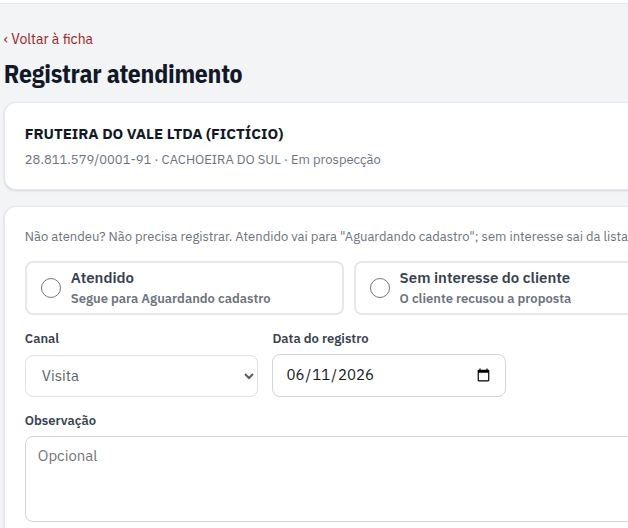
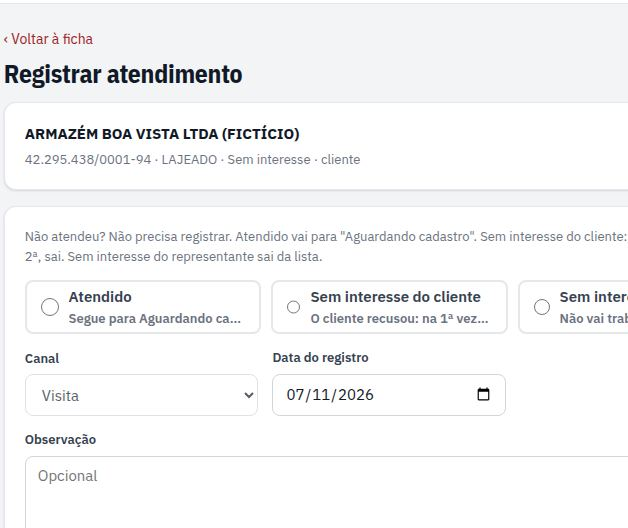
Sem interesse do cliente: 1ª recusa com retorno e na lista; 2ª tira da lista
- Migração 0034: na 1ª recusa do cliente a data de retorno é obrigatória
  (banco e telas) e o cliente continua na lista do representante, na ordem da
  próxima ação; passou a data sem registro, aviso Retorno vencido. Na 2ª
  recusa, ou no sem interesse do representante, sai da lista (Rejeitados).
  Cliente já cadastrado no ERP só registra. Os sem interesse anteriores ficam
  como estão; novo registro deles conta como 2ª recusa.
- Registro individual e em lote: Retornar em * só no sem interesse do
  cliente (1ª recusa); o Atendido não pede mais retorno.
- Lista: "retornar em dd/mm" embaixo do status (vermelho quando chegou).
- Ajuda, docs/02 e docs/03 §2 e §4, testes (banco, lote, registro, telas).

diff --git a/web/js/telas/registrar.js b/web/js/telas/registrar.js
@@ -2,9 +2,9 @@
 // "Não atendido" não gera registro. A data é a do aparelho; o banco confere tudo de novo (triggers).
 import { bancoApp } from '../db.js';
 import { consultaFicha } from '../../shared/carteira.mjs';
-import { comandoRegistrarContato, listarMotivos } from '../../shared/registro.mjs';
+import { comandoRegistrarContato, consultaPrimeiraRecusa, listarMotivos } from '../../shared/registro.mjs';
 import { CANAIS_EM_USO, motivosDaOrigem, ORIGENS_SEM_INTERESSE, ROTULOS_RESULTADO, validarContato } from '../../shared/status.mjs';
-import { hojeSaoPaulo } from '../../shared/datas.mjs';
+import { hojeSaoPaulo, somarDias } from '../../shared/datas.mjs';
 import { mensagemErro } from '../../shared/gravacao.mjs';
 import { h, montar, mensagem, aviso, comEspera, formatar } from '../ui.js';
 import { seloStatus } from './_carteira.js';
@@ -30,7 +30,9 @@ export async function render(conteudo, ctx) {
     return montar(conteudo, mensagem(`${p.status_nome}: este cliente não aceita novo registro.`, 'info'),
       h('a', { href: `#/ficha?id=${id}` }, '‹ Voltar à ficha'));
   }
-  const motivos = await listarMotivos(db);
+  const [motivos, recusa] = await Promise.all([listarMotivos(db), db.execute(consultaPrimeiraRecusa(id))]);
+  // 1ª recusa do cliente: data de retorno obrigatória e o cliente continua na lista; na 2ª ele sai da lista (0034)
+  const primeiraRecusa = Number(recusa.rows[0]?.primeira) === 1;
   const hoje = hojeSaoPaulo();
   // "sem interesse" em duas opções (do cliente / do representante), cada uma com os seus motivos; o registro é o mesmo
   // (resultado sem_interesse) e a origem vem do motivo. Reabrir com pedido só para quem está "sem interesse".
@@ -55,18 +57,23 @@ export async function render(conteudo, ctx) {
   }
   const observacao = h('textarea', { id: 'observacao', rows: 3, maxlength: 500, placeholder: 'Opcional' });
   const rotuloObs = h('label', { for: 'observacao' }, 'Observação');
-  const retorno = h('input', { type: 'date', id: 'data-retorno', min: hoje });
+  const retorno = h('input', { type: 'date', id: 'data-retorno', min: somarDias(hoje, 1) });
   const dataPedido = h('input', { type: 'date', id: 'data-pedido', max: hoje });
   const blocoMotivo = h('div', { class: 'campo oculto' }, rotuloMotivo, motivo);
   const blocoPedido = h('div', { class: 'campo oculto' }, h('label', { for: 'data-pedido' }, 'Data de entrada do pedido *'), dataPedido);
-  const blocoRetorno = h('div', { class: 'campo oculto' }, h('label', { for: 'data-retorno' }, 'Retornar em (opcional)'), retorno);
+  const blocoRetorno = h('div', { class: 'campo oculto' }, h('label', { for: 'data-retorno' }, 'Retornar em *'), retorno,
+    h('small', { class: 'ajuda', style: 'display:block' }, 'O cliente continua na sua lista e volta ao topo nesta data.'));
+  // 2ª recusa do cliente: sem data, ele sai da lista
+  const avisoSegunda = h('p', { class: 'ajuda oculto', id: 'segunda-recusa', style: 'margin:0' }, 'O cliente já recusou antes: agora ele sai da sua lista e vai para Rejeitados.');
   const erros = h('div');
   const botao = h('button', { type: 'submit', disabled: true }, 'Gravar registro');
 
   function atualizar() {
     blocoMotivo.classList.toggle('oculto', resultado !== 'sem_interesse');
     blocoPedido.classList.toggle('oculto', resultado !== 'pedido_informado');
-    blocoRetorno.classList.toggle('oculto', resultado === 'sem_interesse' || !resultado); // retorno só na negociação
+    const recusaCliente = resultado === 'sem_interesse' && origem === 'cliente';
+    blocoRetorno.classList.toggle('oculto', !(recusaCliente && primeiraRecusa));   // o retorno é só da 1ª recusa do cliente
+    avisoSegunda.classList.toggle('oculto', !(recusaCliente && !primeiraRecusa));
     botao.disabled = !resultado;
     // observação obrigatória só quando não há interesse e o motivo exige descrição ("Outros")
     const m = motivos.find((x) => String(x.id) === motivo.value);
@@ -82,7 +89,9 @@ export async function render(conteudo, ctx) {
     const dados = {
       canal: canal.value, resultado, dataContato: data.value, observacao: observacao.value,
       motivoId: resultado === 'sem_interesse' && m ? Number(m.id) : null, motivoExigeObservacao: Boolean(m && Number(m.exige_observacao)),
-      dataRetorno: resultado !== 'sem_interesse' && retorno.value ? retorno.value : null, dataPedido: resultado === 'pedido_informado' ? dataPedido.value || null : null,
+      dataRetorno: resultado === 'sem_interesse' && origem === 'cliente' && primeiraRecusa && retorno.value ? retorno.value : null,
+      exigeRetorno: resultado === 'sem_interesse' && origem === 'cliente' && primeiraRecusa,
+      dataPedido: resultado === 'pedido_informado' ? dataPedido.value || null : null,
     };
     const lista = validarContato(dados);
     if (data.value > hoje) lista.push('a data do registro não pode ser futura');
@@ -104,12 +113,12 @@ export async function render(conteudo, ctx) {
       h('div', { class: 'cartao-prospect-topo' }, h('b', {}, p.razao_social), seloStatus(p)),
       h('div', { class: 'ajuda', style: 'margin:4px 0 0' }, `${formatar.cnpj(p.cnpj)} · ${p.cidade ?? ''} · ${p.status_descricao}`)),
     h('form', { class: 'cartao', onsubmit: gravar },
-      h('p', { class: 'ajuda', style: 'margin-top:0' }, 'Não atendeu? Não precisa registrar. Atendido vai para "Aguardando cadastro"; sem interesse sai da lista principal.'),
+      h('p', { class: 'ajuda', style: 'margin-top:0' }, 'Não atendeu? Não precisa registrar. Atendido vai para "Aguardando cadastro". Sem interesse do cliente: na 1ª recusa ele continua na sua lista até a data de retorno; na 2ª, sai. Sem interesse do representante sai da lista.'),
       opcoes,
       h('div', { class: 'linha-campos' },
         h('div', { class: 'campo' }, h('label', { for: 'canal' }, 'Canal'), canal),
         h('div', { class: 'campo' }, h('label', { for: 'data-contato' }, 'Data do registro'), data),
-        blocoRetorno),
+        blocoRetorno, avisoSegunda),
       blocoMotivo, blocoPedido,
       h('div', { class: 'campo' }, rotuloObs, observacao),
       erros,

diff --git a/web/js/telas/lote.js b/web/js/telas/lote.js
@@ -6,7 +6,7 @@ import { consultaFicha } from '../../shared/carteira.mjs';
 import { listarMotivos } from '../../shared/registro.mjs';
 import { prepararLote, registrarLote } from '../../shared/lote.mjs';
 import { motivosDaOrigem, ORIGENS_SEM_INTERESSE, ROTULOS_RESULTADO } from '../../shared/status.mjs';
-import { hojeSaoPaulo } from '../../shared/datas.mjs';
+import { hojeSaoPaulo, somarDias } from '../../shared/datas.mjs';
 import { h, montar, mensagem, comEspera, formatar, numeros } from '../ui.js';
 import { gravarLote, lerLote } from './_carteira.js';
 import { campoCanal, campoMotivo } from './registrar.js';
@@ -40,24 +40,26 @@ export async function render(conteudo, ctx) {
   const observacao = h('input', { id: 'obs-lote', maxlength: 500, placeholder: 'Observação para todos (opcional)' });
   const canal = campoCanal('canal-lote');
   const data = h('input', { type: 'date', id: 'data-lote', value: hoje, max: hoje, min: ultimo });
-  const retorno = h('input', { type: 'date', id: 'retorno-lote', min: hoje });
+  const amanha = somarDias(hoje, 1);
+  const retorno = h('input', { type: 'date', id: 'retorno-lote', min: amanha });
   const individuais = new Map(prospects.map((p) => [Number(p.id), {
     motivo: campoMotivo(motivosDaOrigem(motivos, 'cliente'), { id: `motivo-${p.id}`, vazio: '(o do lote)' }),
     observacao: h('input', { maxlength: 500, placeholder: '(a do lote)', 'aria-label': `Observação ${p.razao_social}` }),
   }]));
   const blocoMotivo = h('div', { class: 'campo oculto' }, h('label', { for: 'motivo-lote' }, 'Motivo do lote'), motivo);
-  const blocoRetorno = h('div', { class: 'campo oculto' }, h('label', { for: 'retorno-lote' }, 'Retornar em (opcional)'), retorno);
+  const blocoRetorno = h('div', { class: 'campo oculto' }, h('label', { for: 'retorno-lote' }, 'Retornar em *'), retorno);
   const explicacao = h('p', { class: 'ajuda', style: 'margin-top:0' }, 'Escolha o registro que vale para todos os clientes marcados.');
-  // atendido não tem motivo: some o motivo (do lote e de cada cliente) e aparece o retorno
+  // atendido não tem motivo nem retorno; o sem interesse do cliente pede a data de retorno (1ª recusa: o cliente fica na lista)
   function trocarRegistro() {
     const semInteresse = resultadoDe() === 'sem_interesse';
     montar(motivo, opcoesMotivo('Motivo do lote'));
     for (const c of individuais.values()) { montar(c.motivo, opcoesMotivo('(o do lote)')); c.motivo.classList.toggle('oculto', !semInteresse); }
     blocoMotivo.classList.toggle('oculto', !semInteresse);
-    blocoRetorno.classList.toggle('oculto', resultadoDe() !== 'atendido');
+    blocoRetorno.classList.toggle('oculto', registro.value !== 'sem_interesse:cliente');
     explicacao.textContent = !registro.value ? 'Escolha o registro que vale para todos os clientes marcados.'
-      : semInteresse ? 'O motivo e a observação do lote valem para todos; o que for informado no cliente vale só para ele.'
-        : 'Todos passam para Aguardando cadastro. A observação do cliente vale só para ele.';
+      : registro.value === 'sem_interesse:cliente' ? 'Na 1ª recusa, o cliente continua na sua lista e volta na data de retorno; quem já recusou antes sai da lista. O motivo e a observação do lote valem para todos; o do cliente vale só para ele.'
+        : semInteresse ? 'Os clientes saem da sua lista. O motivo e a observação do lote valem para todos; o do cliente vale só para ele.'
+          : 'Todos passam para Aguardando cadastro. A observação do cliente vale só para ele.';
     botao.disabled = !registro.value;
   }
   const resultado = h('div');
@@ -74,10 +76,10 @@ export async function render(conteudo, ctx) {
       if (Object.keys(item).length) ind[id] = item;
     }
     const preparado = prepararLote({
-      usuario, prospects: prospects.map((p) => ({ id: Number(p.id), tentativas: p.tentativas })), individuais: ind, motivos: porId,
+      usuario, prospects: prospects.map((p) => ({ id: Number(p.id), tentativas: p.tentativas, status_atual: p.status_atual })), individuais: ind, motivos: porId,
       comum: { resultado: resultadoDe(), canal: canal.value, dataContato: data.value,
         motivoId: resultadoDe() === 'sem_interesse' && motivo.value ? Number(motivo.value) : null,
-        dataRetorno: resultadoDe() === 'atendido' && retorno.value ? retorno.value : null,
+        dataRetorno: registro.value === 'sem_interesse:cliente' && retorno.value ? retorno.value : null, exigeRetorno: registro.value === 'sem_interesse:cliente',
         observacao: observacao.value, dataHoraDispositivo: new Date().toISOString() },
     });
     const invalidos = preparado.itens.filter((i) => i.erros.length);
@@ -92,7 +94,9 @@ export async function render(conteudo, ctx) {
     montar(conteudo, h('h1', {}, 'Lote gravado'),
       numeros([['gravados', r.gravados, 'ok'], ['recusados', r.recusados.length, r.recusados.length ? 'erro' : '']]),
       r.recusados.length ? mensagem(r.recusados.map((x) => `${prospects.find((p) => Number(p.id) === x.prospectId)?.razao_social}: ${x.erros.join('; ')}`).join(' · '), 'erro') : null,
-      h('p', { class: 'ajuda' }, `Os clientes gravados saíram da lista principal e aparecem no Acompanhamento como "${gravadoComo}".`),
+      h('p', { class: 'ajuda' }, registro.value === 'sem_interesse:cliente'
+        ? 'Na 1ª recusa, os clientes continuam na sua lista e voltam ao topo na data de retorno; quem já tinha recusado saiu da lista (Rejeitados).'
+        : `Os clientes gravados saíram da lista principal e aparecem no Acompanhamento como "${gravadoComo}".`),
       h('div', { class: 'acoes' }, h('a', { class: 'botao', href: '#/carteira' }, 'Voltar à lista'),
         h('a', { class: 'botao secundario', href: '#/carteira?aba=acompanhamento' }, 'Ver no Acompanhamento')));
   }

diff --git a/web/js/telas/_lista.js b/web/js/telas/_lista.js
@@ -232,7 +232,9 @@ export async function renderComputador(conteudo, { usuario, parametros }) {
       // rota do cadastro embaixo do segmento, como o bairro embaixo da cidade
       h('td', { dados: { r: colunaRota ? 'Segmento · rota' : 'Segmento' } }, h('span', { class: 'corta' }, p.tipologia_gtm ?? ''),
         colunaRota && p.rota ? h('small', { class: 'corta' }, `Rota ${p.rota}${p.subrota ? ' / ' + p.subrota : ''}`) : null),
-      h('td', { class: 'centro', dados: { r: 'Status' } }, seloStatus(p), Number(p.prazo_cadastro_vencido) ? h('small', { class: 'alerta-txt' }, 'prazo de cadastro vencido') : null),
+      h('td', { class: 'centro', dados: { r: 'Status' } }, seloStatus(p), Number(p.prazo_cadastro_vencido) ? h('small', { class: 'alerta-txt' }, 'prazo de cadastro vencido') : null,
+        // 1ª recusa do cliente: na lista até a data de retorno (0034)
+        p.status_atual === 'sem_interesse' && p.data_proxima_acao ? h('small', { class: Number(p.pendente_hoje) ? 'alerta-txt' : '' }, `retornar em ${formatar.data(p.data_proxima_acao)}`) : null),
       h('td', { class: 'centro', dados: { r: 'Tentativas' } }, String(p.tentativas ?? 0)), // dias desde o 1º registro embaixo da data, como o bairro embaixo da cidade
       h('td', { class: 'centro', dados: { r: '1º registro' } }, formatar.data(p.dt_primeiro_contato) || '—',
         p.dias_corridos != null ? h('small', {}, `${p.dias_corridos} dia(s)`) : null),

diff --git a/docs/03-regras-negocio.md b/docs/03-regras-negocio.md
@@ -17,7 +17,8 @@
 O vendedor nunca escolhe "inválido", "cadastrado" ou "venda": não existem como resultado de contato.
 
 > **Lista de prospects × acompanhamento × indicadores.**
-> - A **lista de prospects** mostra só *Não contactado* e *Em prospecção* (`vw_prospects.na_lista = 1`).
+> - A **lista de prospects** mostra *Não contactado*, *Em prospecção* e a 1ª recusa do cliente com retorno marcado (0034)
+>   (`vw_prospects.na_lista = 1`).
 > - O **acompanhamento por status** (visão `status` da carteira) mostra **toda** a carteira do vendedor,
 >   inclusive o que saiu da lista, para ele seguir o andamento.
 > - **Tudo o que acontece na base conta nos indicadores** — por vendedor, por equipe (supervisor) e geral.
@@ -31,8 +32,8 @@ representante e vendedor. **Só existem três registros**: Atendido, Sem interes
 
 | Resultado | Campo obrigatório | Efeito |
 |---|---|---|
-| **Atendido** | — (data de retorno opcional) | → **Aguardando cadastro** (sai da lista principal); "atendido em" = data do 1º atendimento; o CNPJ passa a ser procurado nos arquivos de **cadastro** e **pedido** do ERP; abre o **prazo de cadastro** = data + `prazo_cadastro_dias` (15) |
-| **Sem interesse do cliente** | motivo **do cliente** (lista) + observação ("Outro" exige observação) | → **Sem interesse** na hora (sai da lista principal) — "Sem interesse · cliente" |
+| **Atendido** | — | → **Aguardando cadastro** (sai da lista principal); "atendido em" = data do 1º atendimento; o CNPJ passa a ser procurado nos arquivos de **cadastro** e **pedido** do ERP; abre o **prazo de cadastro** = data + `prazo_cadastro_dias` (15) |
+| **Sem interesse do cliente** | motivo **do cliente** (lista) + observação ("Outro" exige observação) + **data de retorno na 1ª recusa** (0034) | → **Sem interesse** — "Sem interesse · cliente". **1ª recusa:** continua **na lista** do representante até a data de retorno (aí sobe ao topo; passou sem registro, aviso Retorno vencido). **2ª recusa** (já houve recusa do cliente antes): **sai da lista**, sem data (Rejeitados) |
 | **Sem interesse do representante** | motivo **do representante** (lista) + observação ("Outro" exige observação) | → **Sem interesse** na hora (sai da lista principal) — "Sem interesse · representante" |
 | **Reabrir: pedido identificado** | **data de entrada do pedido** (≤ data do registro) | → **Aguardando cadastro · pedido informado em dd/mm** (acompanhamento) até o arquivo de pedidos do ERP confirmar a **Venda realizada** |
 
@@ -44,8 +45,14 @@ Regras:
 - **Reabertura:** quando aparece um pedido de um cliente que estava *Sem interesse*, o vendedor/representante
   registra "pedido identificado" com a data de entrada do pedido. Não marca como "convertido sem registro".
 - **Motivo final** de "Sem interesse" = o do último "sem interesse" registrado.
-- **Lista principal** (Não contactado / Em prospecção) está sempre pendente — não há agenda de retorno nela.
-- **Data de retorno** (opcional) só existe na negociação e aparece **só no acompanhamento**.
+- **Lista principal** (Não contactado / Em prospecção) está sempre pendente; a única agenda nela é o retorno da 1ª recusa do
+  cliente (0034), que entra na ordem da próxima ação (vencida/hoje no topo, futura no fim).
+- **Data de retorno** (0034): **obrigatória na 1ª recusa do cliente** (deve ser depois da data do registro) — é ela que mantém o
+  cliente na lista (`vw_prospects.na_lista`: Não contactado, Em prospecção ou Sem interesse com retorno marcado). Na Lista aparece
+  embaixo do status ("retornar em dd/mm", em vermelho quando chegou). O Atendido não pede mais retorno na tela (o banco ainda aceita).
+  Cliente já cadastrado no ERP (análise, aguardando pedido) só registra: não pede data e não volta para a lista.
+- **Recusas do cliente:** a 1ª é a que não tem outra recusa do cliente antes (qualquer data). Os sem interesse do cliente
+  registrados antes da 0034 ficaram fora da lista; um novo registro deles já conta como 2ª recusa.
 - **Data do aparelho manda.** Única trava: não pode ser anterior ao último registro do prospect.
 - **Observação** é livre; a versão sem acento (`observacao_busca`) alimenta o ranking de palavras-chave.
 - **Correção** = novo registro. Nada é editado.
@@ -71,9 +78,11 @@ Implementação: [`shared/lote.mjs`](../shared/lote.mjs) · testes: [`test/lote.
 - **Na tela** (`#/lote`, **Registro em lote**): marca-se os clientes na lista principal (a seleção fica só nesta aba do
   navegador; a caixa do título marca todos da lista filtrada, inclusive grupos fechados — ex.: a rota do dia) →
   **Registrar em lote** → escolhe o **Registro**, que vale para todos (começa sem escolha):
-  - **Atendido**: sem motivo; **Retornar em** opcional para todos; todos passam para **Aguardando cadastro** com o prazo
+  - **Atendido**: sem motivo nem retorno; todos passam para **Aguardando cadastro** com o prazo
     de cadastro aberto, igual ao registro individual.
-  - **Sem interesse do cliente / do representante**: motivo/observação do lote e, se quiser, por cliente.
+  - **Sem interesse do cliente / do representante**: motivo/observação do lote e, se quiser, por cliente. No **do cliente**,
+    **Retornar em** é obrigatório (1ª recusa: os clientes continuam na lista); quem já está na lista como Sem interesse está na
+    2ª recusa e sai da lista sem data.
   O resultado mostra gravados × recusados (com o motivo); os recusados continuam selecionados.
 
 ### Sem interesse: do cliente × do representante (migração 0015)
@@ -146,7 +155,7 @@ Do sistema (não aparece no app): Não informado (importação inicial).
 |---|---|---|
 | Prazo de cadastro vencido (Cadastro vencido) | Aguardando cadastro e `prazo_cadastro_ate` < hoje | dias depois do prazo |
 | Análise financeira fora do prazo (Análise financeira) | Em análise e `analise_financeira_ate` < hoje (`prazo_analise_financeira_dias`) | dias depois do prazo |
-| Retorno vencido | data de retorno < hoje, em status que aceita contato | dias depois da data |
+| Retorno vencido | data de retorno < hoje, em status que aceita contato — na prática, a 1ª recusa do cliente sem novo registro até a data (0034) | dias depois da data |
 | Representante sem registrar (Sem registrar) | representante/vendedor ativo com cliente a procurar nas ondas liberadas e sem atendimento no app há mais de `dias_alerta_sem_lancamento` (ou nunca) | dias desde o último registro |
 | Cliente sem movimento (Sem movimento) | `vw_prospects.parado`, **só depois do 1º registro** (0031): Em prospecção desde o último registro, ou Aguardando pedido desde a liberação do crédito (ou o último registro), sem retorno marcado, há mais de `dias_alerta_sem_movimento`. **Não contactado não entra** (é cobertura da carteira, não pendência); Aguardando cadastro e Análise financeira têm prazo próprio e não contam duas vezes | dias parado |
 

diff --git a/docs/02-modelo-dados.md b/docs/02-modelo-dados.md
@@ -132,7 +132,7 @@ Views: `vw_pedidos` (situação atual de cada pedido, classificada, com represen
 
 | View | Uso |
 |---|---|
-| `vw_prospects` | carteira/ficha: prospect + status (nome, cor) + vendedor + supervisor + motivo + `vendedor_tipo_atuacao`, `status_descricao` ("Aguardando cadastro · atendido em dd/mm/aaaa"), `dias_corridos` (desde o 1º atendimento), `na_lista`, `pendente_hoje`, `retorno_pendente`, `atendido`, `prazo_cadastro_vencido`, `em_analise_financeira`, `dias_sem_movimento`, `parado` (0031: só depois do 1º registro, docs/03 §4) |
+| `vw_prospects` | carteira/ficha: prospect + status (nome, cor) + vendedor + supervisor + motivo + `vendedor_tipo_atuacao`, `status_descricao` ("Aguardando cadastro · atendido em dd/mm/aaaa"), `dias_corridos` (desde o 1º atendimento), `na_lista` (0034: inclui a 1ª recusa do cliente com retorno marcado), `pendente_hoje`, `retorno_pendente`, `atendido`, `prazo_cadastro_vencido`, `em_analise_financeira`, `dias_sem_movimento`, `parado` (0031: só depois do 1º registro, docs/03 §4) |
 | `vw_movimentacoes` | histórico de movimentação com nomes (status, quem fez, vendedor da época, cidade/bairro) — linha do tempo da ficha e base de filtros |
 | `vw_ultimo_lancamento` | dias sem lançar por vendedor (bloco de atenção) |
 | `vw_avisos` (0031; 0032: sem registrar e sem movimento contam do início da campanha; 0033: sem o cadastro sem atendimento) | um aviso por linha — tipo, cliente (vazio no sem registrar), dono da carteira, data de referência e atraso; cada parte lê só o vencido por um índice parcial (`ix_avisos_*`). Tela Avisos, Excel, PDF e número do menu |
